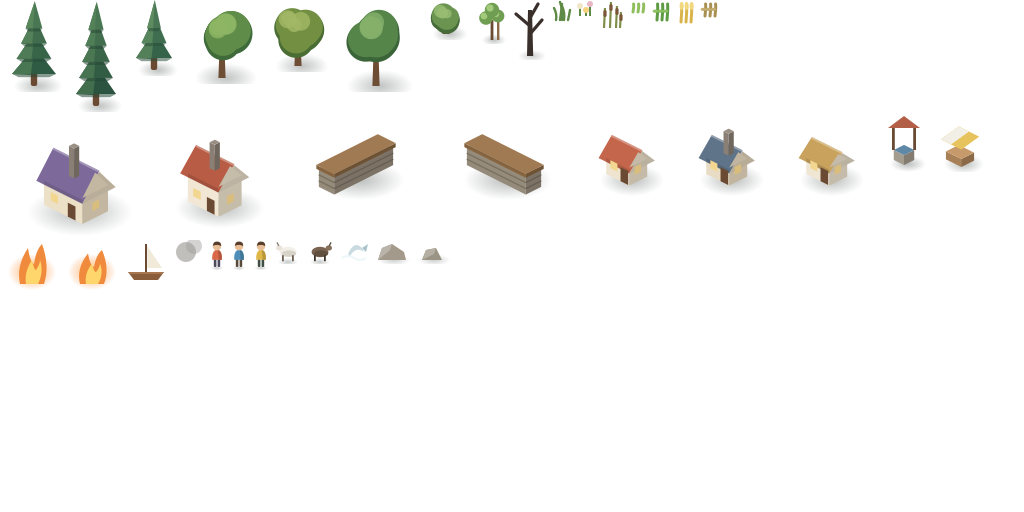
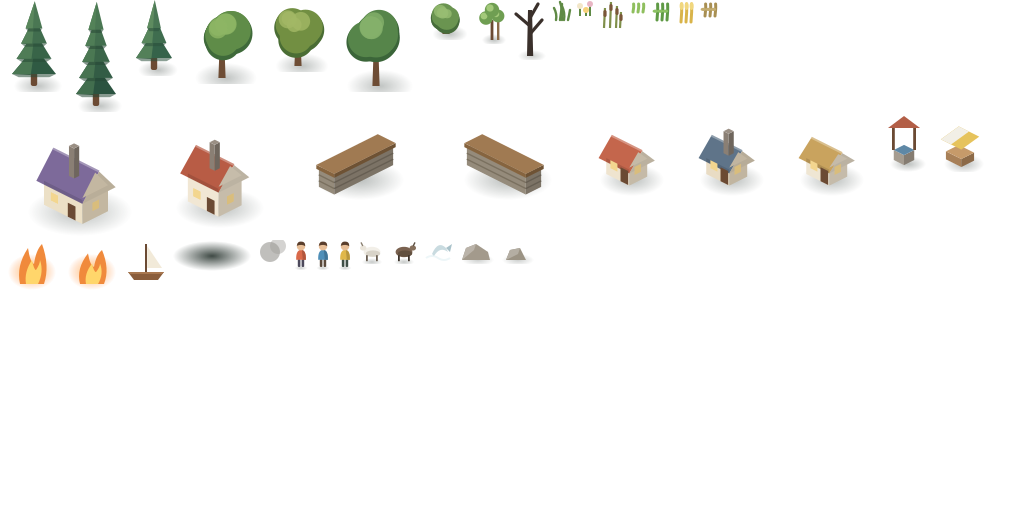
Perf: soft shadows become one stretched atlas sprite (batches with trees), ground quads via draw_primitive; --perf=FRAMES debug hook measures frame/render time on a real renderer (1551 -> 1438 draw calls vs pre-art-pass)

Changed region(s): [[0.1562, 0.4688, 0.5312, 0.5312]]

diff --git a/tools/art/make_atlas.py b/tools/art/make_atlas.py
@@ -216,6 +216,8 @@ b += '<ellipse cx="0" cy="-4" rx="4.2" ry="2.6" fill="#7a6250"/><ellipse cx="0.5
 b += '<rect x="-3" y="-2.4" width=".9" height="3" fill="#3e342c"/><rect x="2" y="-2.4" width=".9" height="3" fill="#3e342c"/>'
 b += '<ellipse cx="4.4" cy="-6" rx="1.6" ry="1.3" fill="#86705c"/><path d="M4.6 -7 L5.5 -8.8" stroke="#5a4e40" stroke-width=".7"/>'
 add("goat_b", b, 14, 12, 7, 10)
+# soft ground shadow, stretched per caster at draw time (batches with every other sprite)
+add("cast_shadow", '<ellipse cx="0" cy="0" rx="19.5" ry="7.5" fill="url(#sh)" opacity=".85"/>', 40, 16, 20, 8)
 # villagers (walkers): tiny figure, shirt colour varies
 for nm, shirt, pants in [("villager_a", "#d9694a", "#4d4a5c"), ("villager_b", "#4f8fb8", "#5a4a3c"),
                          ("villager_c", "#e0b84a", "#3f4f46")]:
